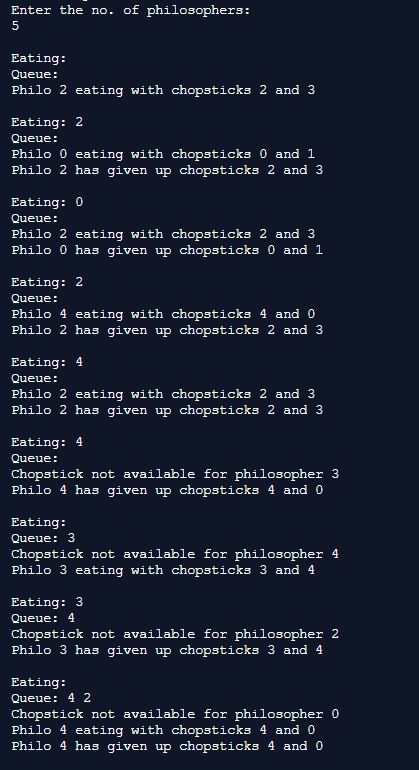
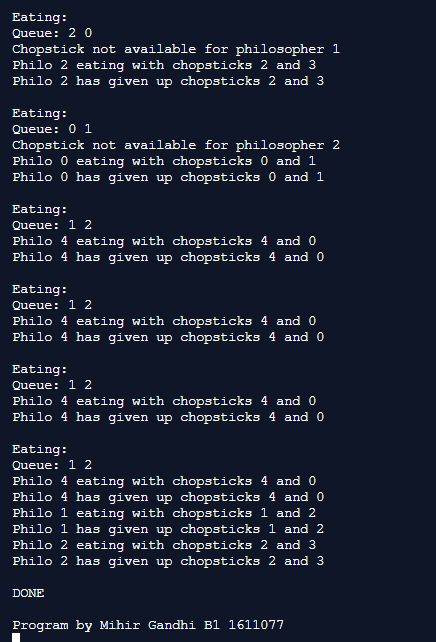
dining philosopher image added

Changed region(s): [[0.0, 0.0, 0.8067, 1.0], [0.2792, 0.0, 0.5895, 0.0312]]

diff --git a/Dining_Philospher_Problem/Main.java b/Dining_Philospher_Problem/Main.java
@@ -1,0 +1,172 @@
+import java.util.*;
+
+class Main extends Thread{
+  public static int n;
+  public static int total=0;
+  public static ArrayList<Integer> queue = new ArrayList<Integer>();
+  public static ArrayList<Integer> eating = new ArrayList<Integer>();  
+  public static ArrayList<Philo> philoList = new ArrayList<Philo>();
+  public static void main(String[] args){
+    Scanner sc = new Scanner(System.in);
+    System.out.println("Enter the no. of philosophers: ");
+    n = sc.nextInt();
+    for(int i=0; i<n; i++){
+      Philo p = new Philo(i);
+      philoList.add(p);
+    }
+    AssignChopstick ac = new AssignChopstick();
+    ac.start();
+    try{
+      sleep(2000);
+    }
+    catch(Exception e){}
+    AssignChopstick ac2 = new AssignChopstick();
+    ac2.start();
+  }
+
+  static void queueRoutine(){
+    Random r = new Random();
+    Philo p = philoList.get(queue.get(0));
+    while(true){
+    if(Semaphore.check(p.id)){
+      Semaphore.semWait(p.id);
+      Main.philoList.get(queue.get(0)).status = 2;
+      int x = p.id;
+      int temp = Integer.valueOf(queue.get(0));
+      Main.eating.add(x);
+      queue.remove(0);
+      System.out.println("Philo "+p.id+" eating with chopsticks "+ x + " and "+(x+1)%(Main.n));
+      try{
+        sleep((r.nextInt(5)+2)*1000);
+      }
+      catch(Exception e)
+      {
+        System.out.println("Thread Interrupted");
+      }
+      Semaphore.semSignal(p.id);
+      Main.eating.remove(new Integer(x));
+      Main.philoList.get(temp).status = 0;
+      System.out.println("Philo "+p.id+" has given up chopsticks "+ x + " and "+(x+1)%(Main.n));
+      break;
+    }
+   }
+  }
+}
+
+class Semaphore{
+  public static int flag[] = new int[Main.n];
+  public static void semWait(int x){
+    flag[x] = 1;
+    flag[(x+1)%(Main.n)] = 1;
+  }
+  public static void semSignal(int x){
+    flag[x] = 0;
+    flag[(x+1)%(Main.n)] = 0;
+  }
+  public static boolean check(int x){
+    if(flag[x] == 0 && flag[(x+1)%(Main.n)] == 0){
+      return true;
+    }
+    else{
+      return false;
+    }
+  }
+}
+
+class AssignChopstick extends Thread{
+  Random r = new Random();
+  public void run(){
+    while(Main.total<15){
+      Main.total++;
+       System.out.print("\nEating: ");
+      for(int k=0;k<Main.eating.size();k++){
+        System.out.print(Main.eating.get(k)+" ");
+      }
+      System.out.print("\nQueue: ");
+      for(int k=0;k<Main.queue.size();k++){
+        System.out.print(Main.queue.get(k)+" ");
+      }
+      System.out.println("");
+      int temp;
+      do{
+         temp = r.nextInt(Main.n);
+      }while(Main.philoList.get(temp).status!=0);
+      Philo p = Main.philoList.get(temp);
+      Main.philoList.get(temp).status = 1;
+      int flag2=0;
+      if(temp==0){
+        if(Main.philoList.get(temp+1).status==0&&Main.philoList.get(Main.n-1).status==0){
+          flag2=1;
+        }
+      }
+      else if(temp==Main.n-1){
+        if(Main.philoList.get(temp-1).status==0&&Main.philoList.get(0).status==0){
+          flag2=1;
+        }
+      }
+      else{
+        if(Main.philoList.get(temp-1).status==0 &&Main.philoList.get(temp+1).status==0){
+          flag2=1;
+        }
+      }
+      if(Main.queue.isEmpty()||flag2==1){
+      if(Semaphore.check(p.id)){
+        Semaphore.semWait(p.id);
+        Main.philoList.get(temp).status = 2;
+        int x = p.id;
+        Main.eating.add(x);
+        System.out.println("Philo "+p.id+" eating with chopsticks "+ x + " and "+(x+1)%(Main.n));
+        try{
+        sleep((r.nextInt(5)+2)*1000);
+        }
+        catch(Exception e)
+        {
+          System.out.println("Thread Interrupted");
+        }
+        Semaphore.semSignal(p.id);
+        Main.eating.remove(new Integer(x));
+        Main.philoList.get(temp).status = 0;
+        System.out.println("Philo "+p.id+" has given up chopsticks "+ x + " and "+(x+1)%(Main.n));
+      }
+      else{
+        System.out.println("Chopstick not available for philosopher "+p.id);
+        Main.queue.add(p.id);
+        try{
+        sleep(2000);
+        }
+        catch(Exception e)
+        {
+          System.out.println("Thread Interrupted");
+        }
+      }
+      }
+      else{
+        System.out.println("Chopstick not available for philosopher "+p.id);
+        Main.queue.add(p.id);
+        Main.queueRoutine();
+        try{
+        sleep(5000);
+        }
+        catch(Exception e)
+        {
+          System.out.println("Thread Interrupted");
+        }
+      }
+    }
+    while(Main.queue.size()!=0){
+      Main.queueRoutine();
+    }
+    System.out.println("\nDONE");
+    System.out.print("\nProgram by Mihir Gandhi B1 1611077\n");
+    System.exit(0);
+  }
+}
+
+class Philo{
+  int id;
+  int status; // 0:idle   1:hungry   2:eating
+  Philo(int id){
+    this.id = id;
+    this.status = 0;
+  }
+}
